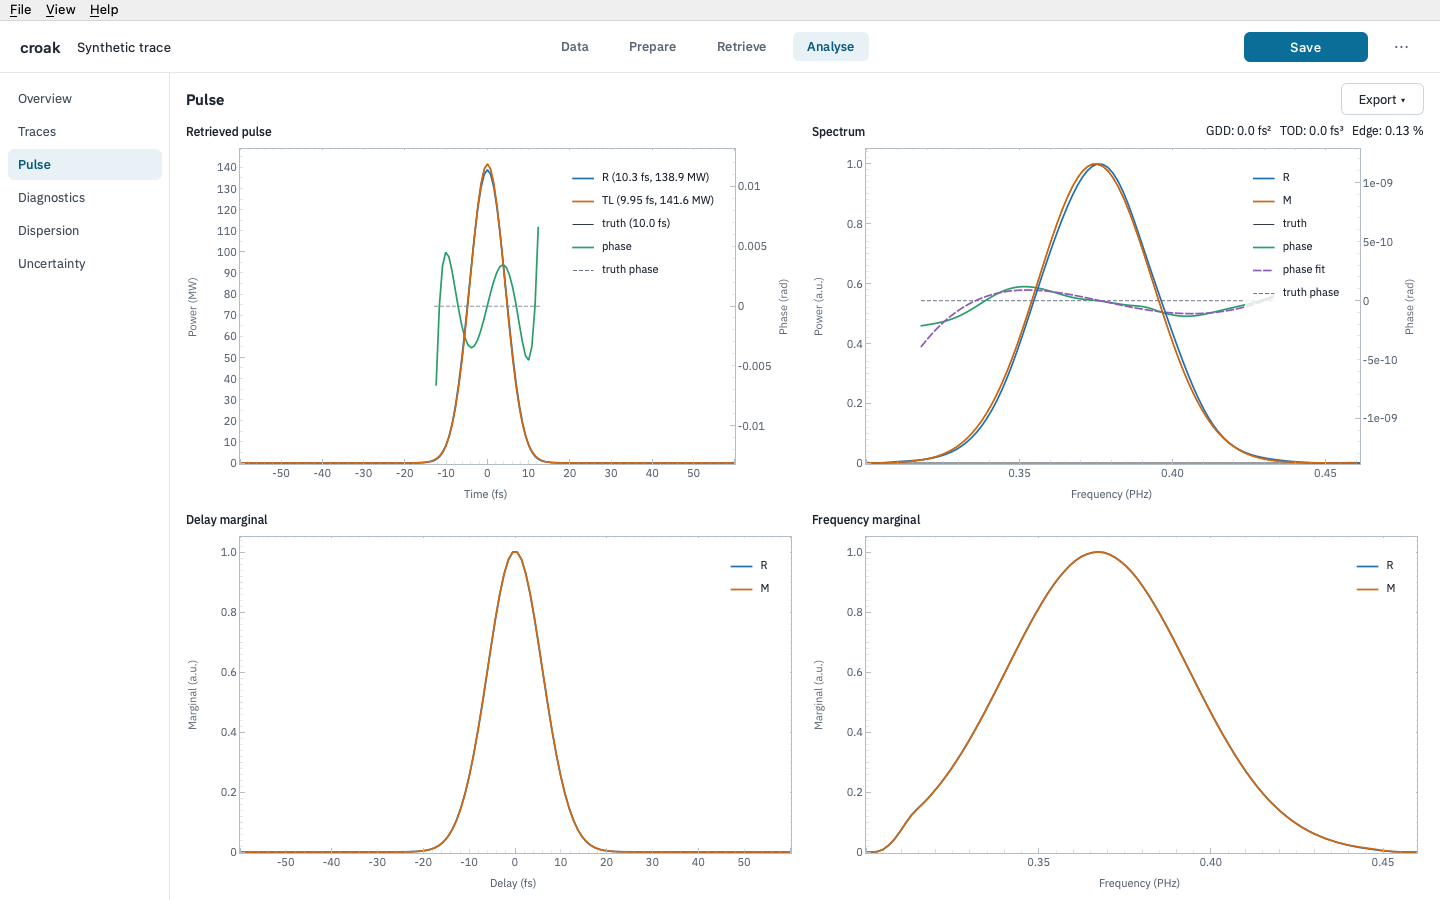
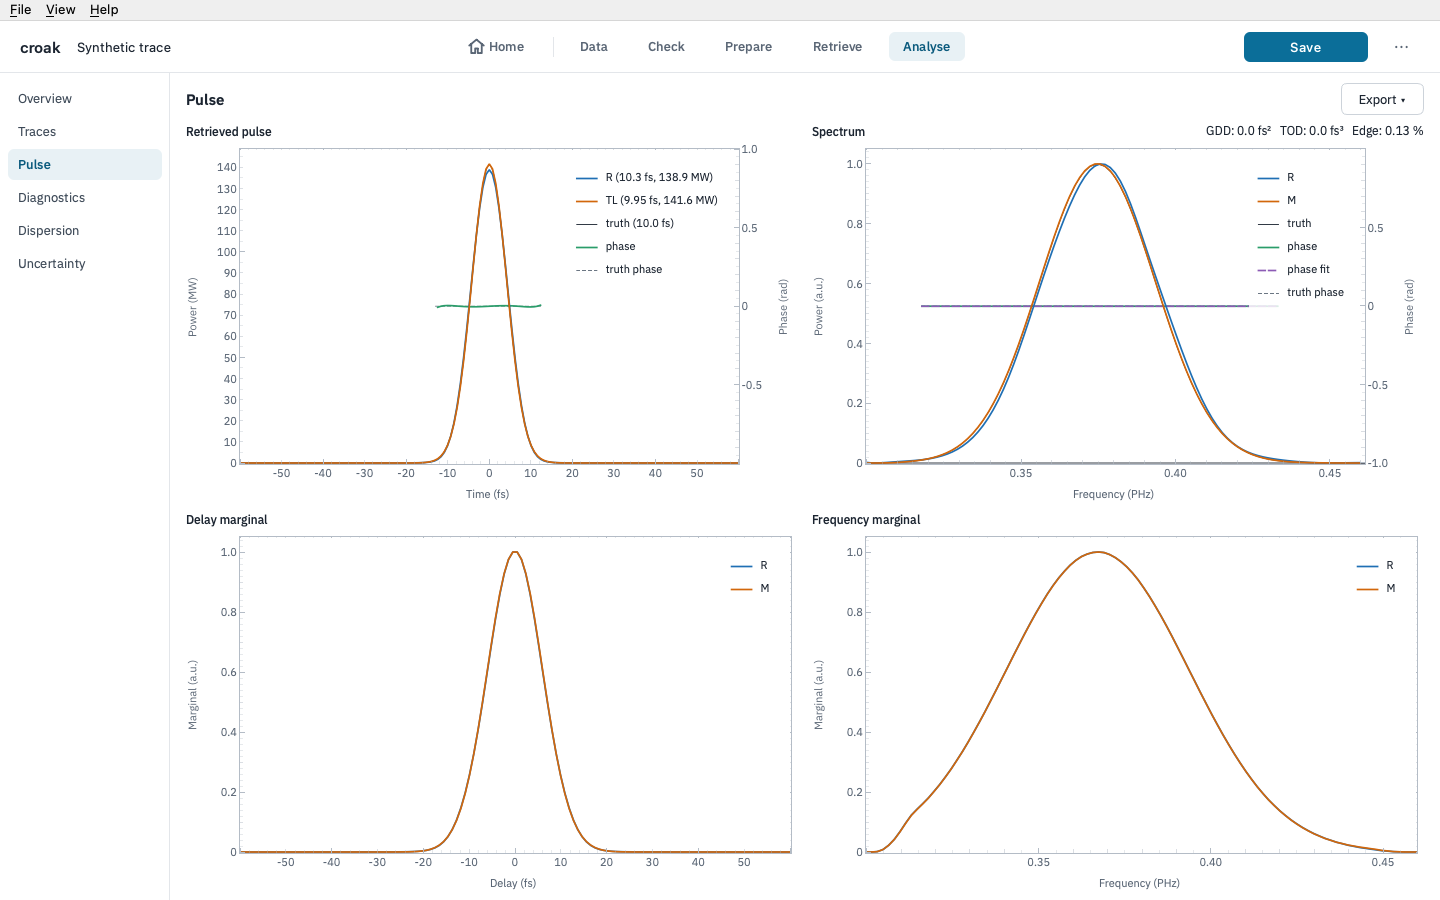
Retake the GUI screenshots for the new layout

diff --git a/tools/make_docs_images.py b/tools/make_docs_images.py
@@ -181,7 +181,7 @@ def make_gui_screenshots(folder: Path) -> list[Path]:
     """Drive the window through a synthetic retrieval and grab three views.
 
     Follows the route a user takes: Home, a synthetic trace (Continue generates
-    it and checks its marginal, Continue again prepares it), then Retrieve. A
+    it and opens Check, Continue again prepares it), then Retrieve. A
     synthetic session is used deliberately — it carries the known ground truth,
     so the read-out's ``truth`` row is populated and the plots gain the truth
     overlay.
@@ -198,7 +198,7 @@ def make_gui_screenshots(folder: Path) -> list[Path]:
     paths = [_grab(window, folder / "gui_home.png")]
 
     window.new_session("synthetic")
-    window.do_primary()  # generate the trace -> the marginal check
+    window.do_primary()  # generate the trace -> Check
     # Widen the spectral window and lengthen the time range before preparing.
     # The seeded defaults regrid onto only 24 frequency points (dt = 10.5 fs),
     # which is too coarse to represent a 10 fs pulse: the retrieval still reaches
